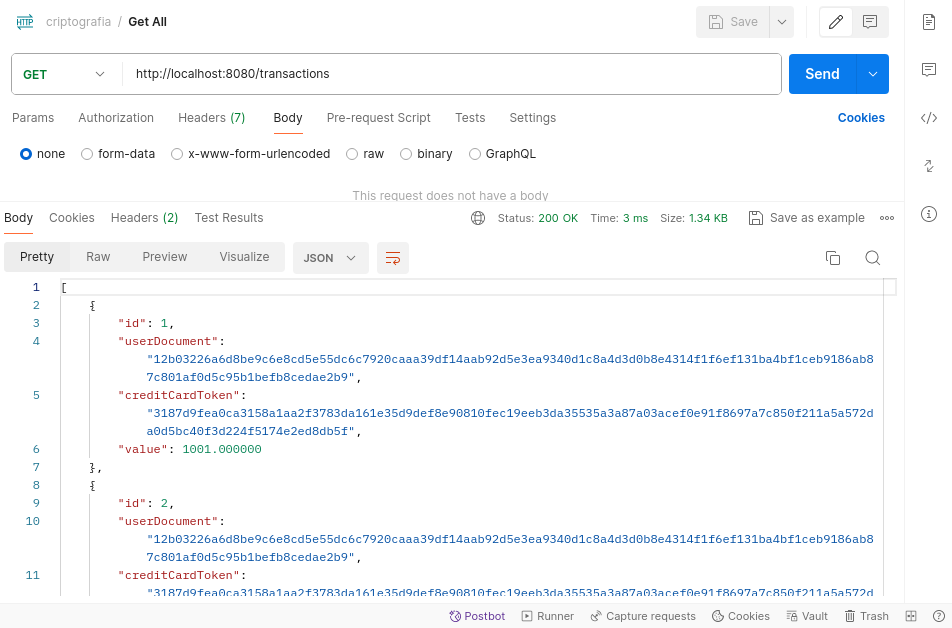
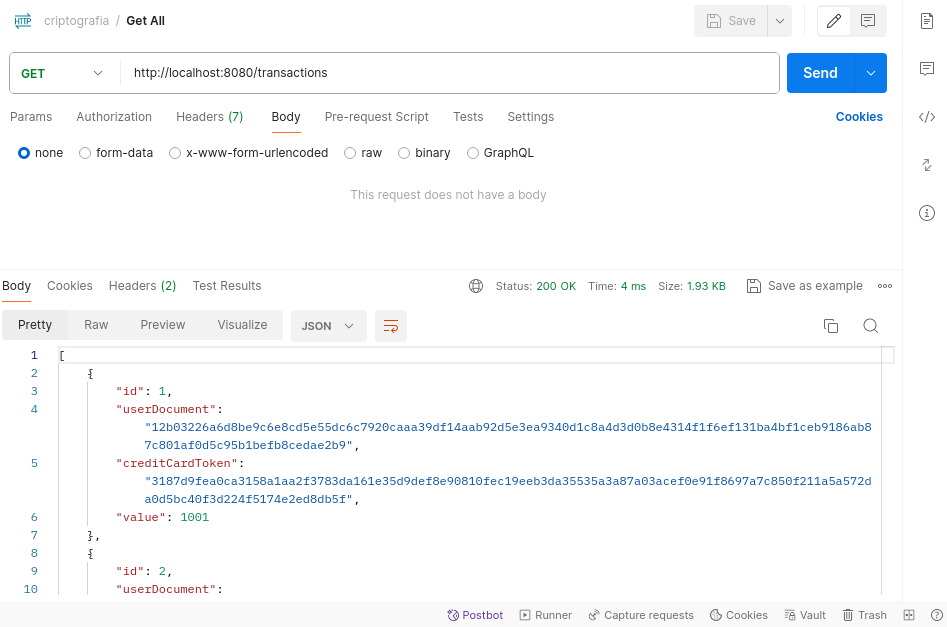
Refactor database.h to change value column type to INTEGER
Refactor json.c to use long instead of double for value field in JSON objects and arrays

diff --git a/src/json.c b/src/json.c
@@ -6,9 +6,9 @@ char *convert_to_json(sqlite3_stmt *res) {
         int id = sqlite3_column_int(res, 0);
         const unsigned char *name = sqlite3_column_text(res, 1);
         const unsigned char *email = sqlite3_column_text(res, 2);
-        const double value = sqlite3_column_double(res, 3);
+        const long value = (long) sqlite3_column_double(res, 3);
 
-        snprintf(json + strlen(json), sizeof(json) - strlen(json), "\"id\": %d, \"userDocument\": \"%s\", \"creditCardToken\": \"%s\", \"value\": %f", id, name, email, value);
+        snprintf(json + strlen(json), sizeof(json) - strlen(json), "\"id\": %d, \"userDocument\": \"%s\", \"creditCardToken\": \"%s\", \"value\": %ld", id, name, email, value);
     }
     strcat(json, "}");
     return strdup(json);
@@ -22,7 +22,7 @@ char *convert_to_json_array(sqlite3_stmt *res) {
         int id = sqlite3_column_int(res, 0);
         const unsigned char *name = sqlite3_column_text(res, 1);
         const unsigned char *email = sqlite3_column_text(res, 2);
-        const double value = sqlite3_column_double(res, 3);
+        const long value = (long) sqlite3_column_double(res, 3);
 
         if (first_row) {
             first_row = 0;
@@ -30,7 +30,7 @@ char *convert_to_json_array(sqlite3_stmt *res) {
             strcat(json, ",");
         }
 
-        snprintf(json + strlen(json), sizeof(json) - strlen(json), "{\"id\":%d,\"userDocument\":\"%s\",\"creditCardToken\":\"%s\",\"value\":%f}", id, name, email, value);
+        snprintf(json + strlen(json), sizeof(json) - strlen(json), "{\"id\":%d,\"userDocument\":\"%s\",\"creditCardToken\":\"%s\",\"value\":%ld}", id, name, email, value);
     }
 
     strcat(json, "]");

diff --git a/include/database.h b/include/database.h
@@ -13,7 +13,7 @@
     "id INTEGER PRIMARY KEY AUTOINCREMENT, " \
     "userDocument TEXT, " \
     "creditCardToken TEXT, "  \
-    "value REAL);"
+    "value INTEGER);"
 
 
 #define INSERT_QUERY \
